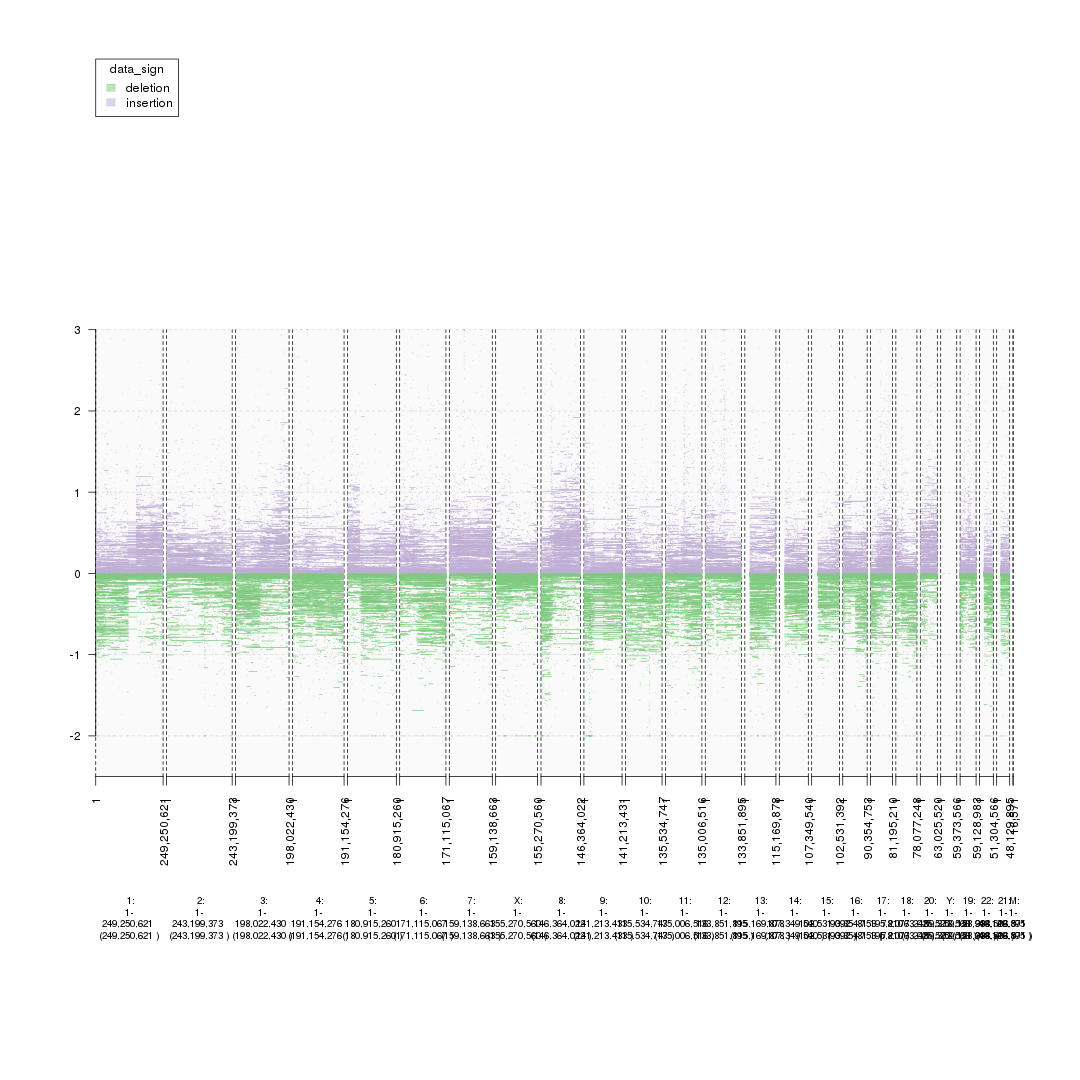
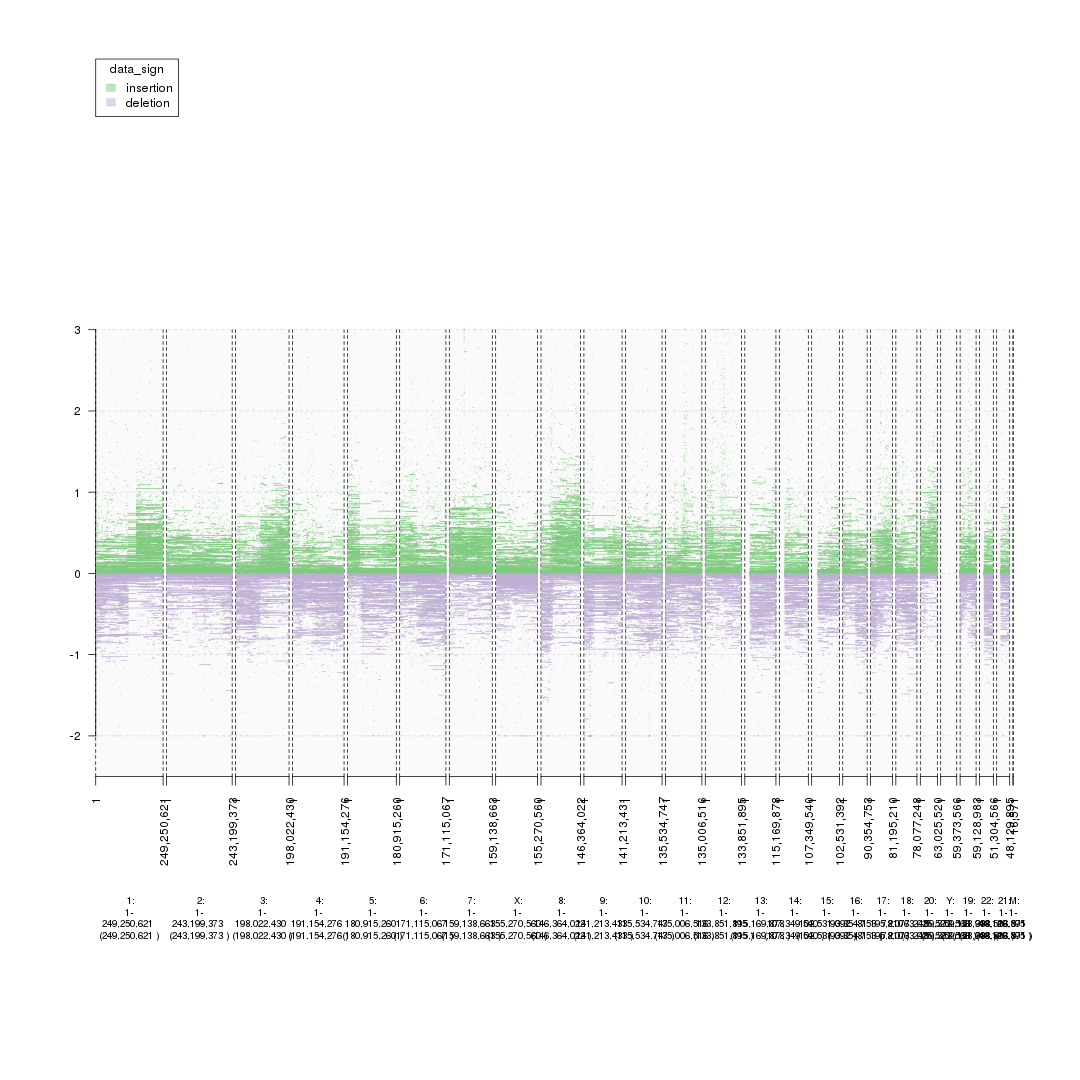
update super enhancers

Changed region(s): [[0.0917, 0.4278, 0.9472, 0.6111], [0.1222, 0.0611, 0.1528, 0.1222]]

diff --git a/rtdocs/super_enhancers/super_enhancers.rst b/rtdocs/super_enhancers/super_enhancers.rst
@@ -121,7 +121,12 @@ To illustrate gTrack's capability in exploring data sets such as ChiP-Seq data
     ## second MYC super-enhancer
     myc_se <- parse.gr(c('8:129166547-129190290'))
     win <- myc_se
+    plot(gTrack(seg_ranges_chrom8, y.field = 'Log2.Ratio', colormaps = list('data_sign' = c(insertion = "blue", deletion = "red"))), win)
 
+.. figure:: figure/plot_MYC_enhancers-2.png
+    :alt: plot of chunk plot_MYC_enhancers
+
+    plot of chunk plot_MYC_enhancers
 
 
 .. sourcecode:: r
